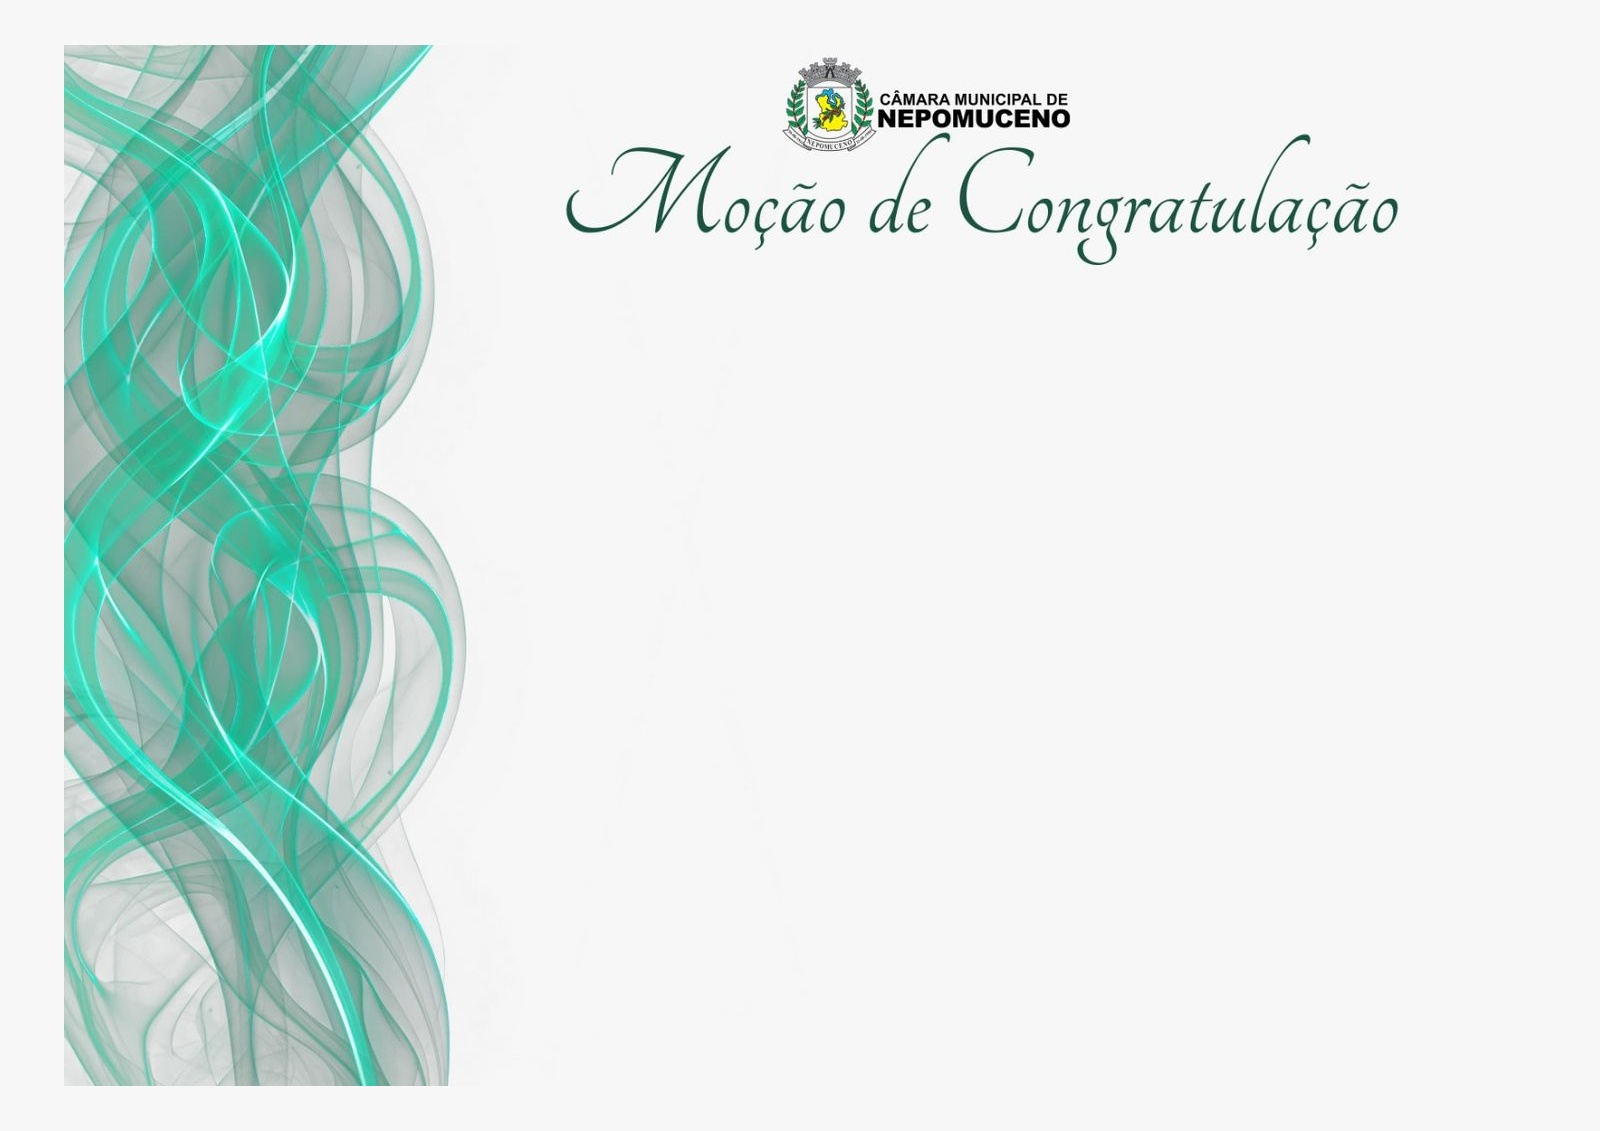
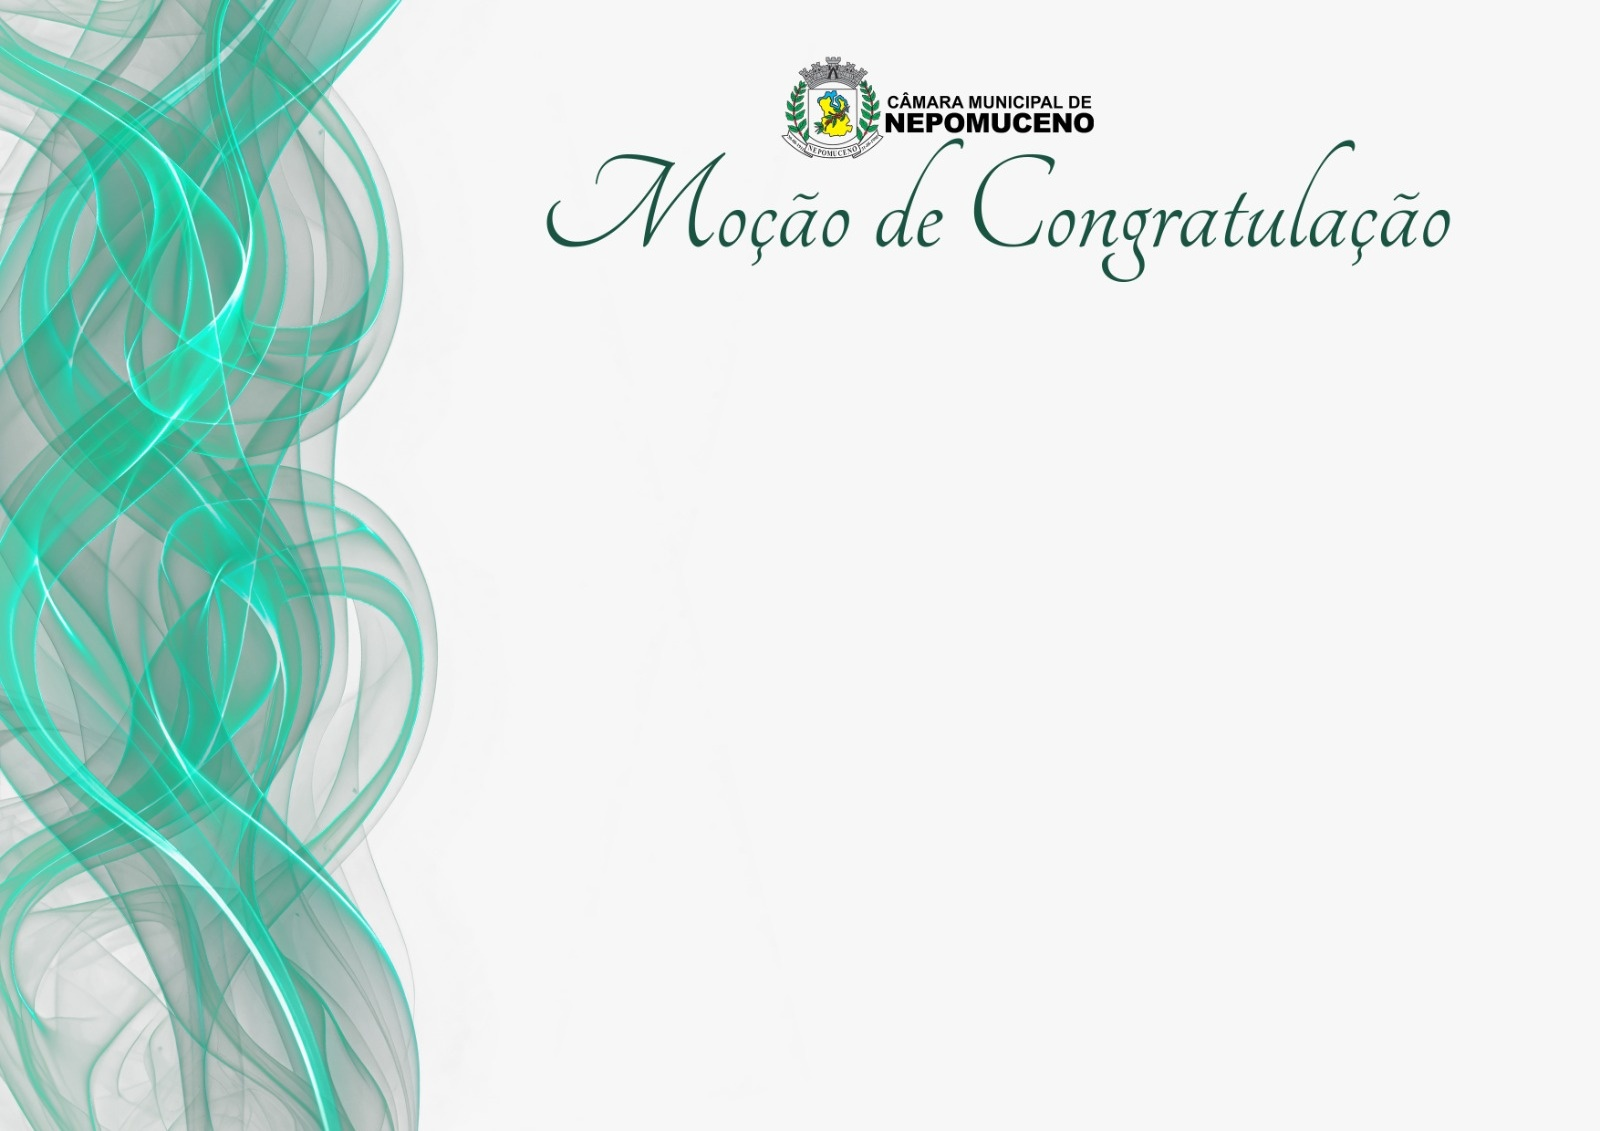
Moções: remove margem/moldura indevida no timbrado da Congratulação
O ajuste anterior (encolher a arte toda 8% com respiro uniforme) tirou
a tarja branca sobre o swirl, mas criou um novo problema: a arte
inteira ficou visivelmente menor que a página, com uma borda em
volta — lida como "as margens ainda estão erradas".

Corrigido com uma abordagem mais cirúrgica: só a região à direita do
swirl (onde fica a logo/título, sem nenhum conteúdo do swirl) é
deslocada pra baixo; a região do swirl fica intocada, sangrando até a
borda como no design original. Confirmado sem costura visível na
fronteira entre as duas regiões.

Changed region(s): [[0.0, 0.0, 0.3125, 1.0], [0.3438, 0.0309, 0.9062, 0.2476]]

diff --git a/src/app/(print)/mocoes/mocao-conteudo.tsx b/src/app/(print)/mocoes/mocao-conteudo.tsx
@@ -149,7 +149,7 @@ function CongratulacaoConteudo({
   return (
     <PaginaA4 orientacao="paisagem" backgroundImage="/timbrado/mocao-congratulacoes.jpg">
       <div
-        className="ml-[95mm] mr-[12mm] mt-[52mm] flex flex-1 flex-col text-[12pt] leading-[1.15]"
+        className="ml-[95mm] mr-[12mm] mt-[55mm] flex flex-1 flex-col text-[12pt] leading-[1.15]"
         style={{ fontFamily: FONTE_CORPO }}
       >
         <p className="text-justify">
